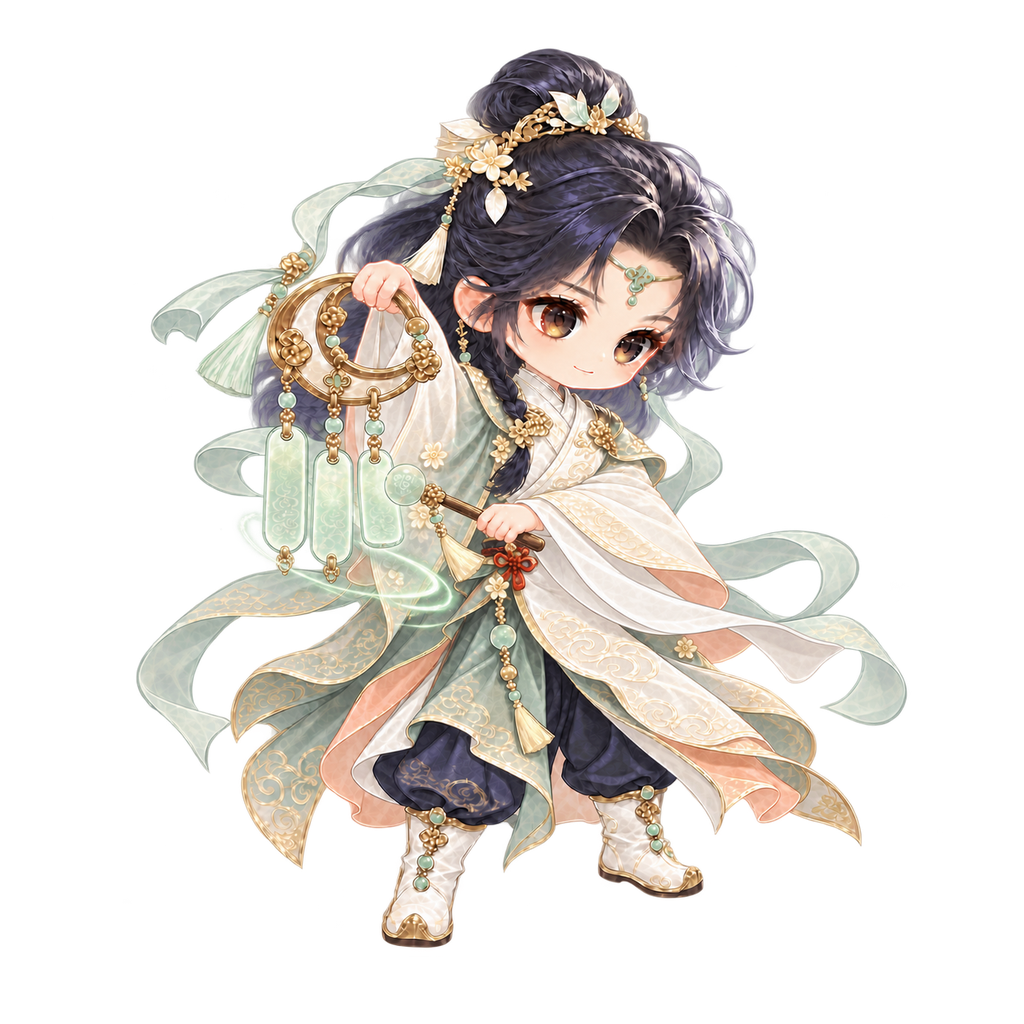
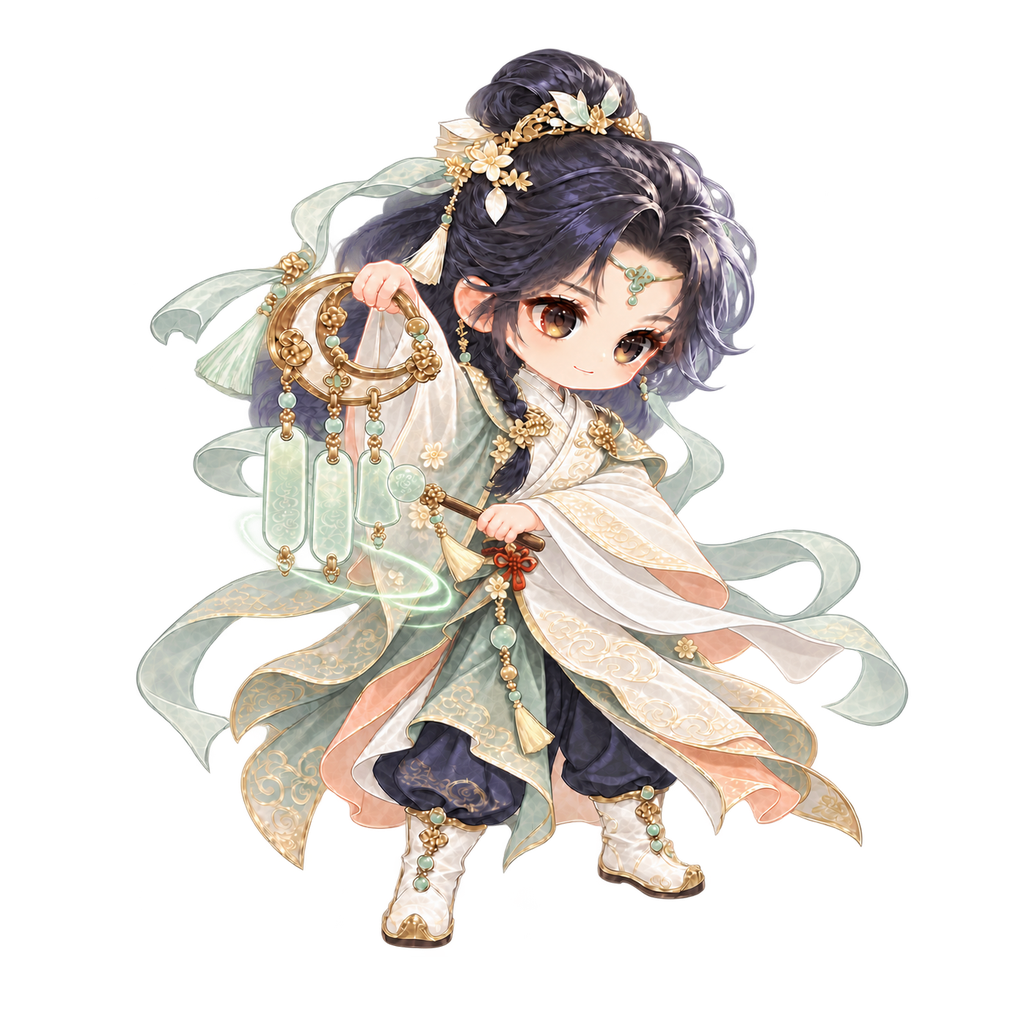
Save game artwork and production records batch 1809

diff --git a/designs/creature-combat-20261005/pets/15-landuoxian/provenance/cast/E/finalize_records.py b/designs/creature-combat-20261005/pets/15-landuoxian/provenance/cast/E/finalize_records.py
@@ -1,0 +1,39 @@
+from pathlib import Path
+import json,hashlib
+p=Path('D:/work/image/designs/creature-combat-20261005/pets/15-landuoxian/provenance/cast/E')
+sha=lambda f:hashlib.sha256(f.read_bytes()).hexdigest()
+for file in p.glob('*.generation.json'):
+    j=json.loads(file.read_text(encoding='utf8'))
+    for k,ref in enumerate(j['references']):
+        original=Path(ref['path'])
+        actual=original
+        if k==3:
+            if file.name in [f'{i:02}.generation.json' for i in range(9,14)]:
+                ref['role']='AI edit target: same frame before local chime shape correction; preserve pose, scale and support'
+                j['editedFrom']={'file':str(actual),'sha256':sha(actual),'generationRecord':str(p/f'{file.name[:2]}.pre-chimefix.generation.json')}
+            elif file.name=='14.generation.json' or file.name in [f'{i:02}.pre-chimefix.generation.json' for i in range(10,14)]:
+                actual=original.with_name(original.stem+'.pre-chimefix.png')
+                ref['originalInputPath']=str(original)
+                ref['path']=str(actual)
+                ref['retainedSourceExplanation']='Original submitted path was later replaced by accepted local chime repair; this retained native is the exact input at submission.'
+        if actual.exists(): ref['sha256']=sha(actual)
+    if file.name in [f'{i:02}.generation.json' for i in range(1,17)]:
+        j['visualQA']['acceptedSingleFrame']=True
+        j['visualQA']['motionPreview']='pending root combined normal/0.25x review'
+        if 9<=int(file.name[:2])<=13:
+            j['visualQA']['localRepair']='Short flared right chime restored; hands, instrument holding and pose re-inspected.'
+    file.write_text(json.dumps(j,ensure_ascii=False,indent=2),encoding='utf8')
+review={
+'action':'cast','direction':'E','frameCount':16,'durationMs':45,
+'singleFrameVisualInspection':'All 16 final full-size generated outputs inspected, followed by two sequential contact sheets.',
+'finalPaths':'runtime/cast/E/01.png through16.png',
+'provenance':'provenance/cast/E/NN.prompt.txt, NN.receipt.json, NN.generation.json',
+'consistentChecks':['E three-quarter front lower-right','two arms/two hands/two legs','anatomical right hand gold ring; anatomical left jade mallet','exactly three jade chimes; short flared far-right chime restored in09–13','no wings/tails introduced','true RGBA transparent background','single frame per builtin imagegen request; no mirrored/copied/interpolated frame'],
+'repairs':[{'frame':9,'reason':'excessive rebound in initial release pose','status':'corrected'},{'frames':[9,10,11,12,13],'reason':'rightmost short chime silhouette had elongated','status':'corrected'},{'frame':10,'reason':'one chime repair candidate added a third arm/second mallet','status':'rejected; corrected final is two arms and one mallet'}],
+'normalAndSlowPlayback':'not claimed; root performs combined six-group browser review',
+'remainingReviewFocus':['01→02 initial ring lift is comparatively fast','10→11 ring lowering is comparatively fast','small AI contour/ornament and foot-support variation should be assessed at runtime scale; no per-frame alignment was applied'],
+'clientIntegration':'not tested',
+'retention':'native and rejected images retained temporarily as root instructed; root performs final retention cleanup after six-group verification. Preserve all text provenance.'
+}
+(p/'group-review.json').write_text(json.dumps(review,ensure_ascii=False,indent=2),encoding='utf8')
+print('final source chains enriched; group review saved')

diff --git a/designs/creature-combat-20261005/pets/15-landuoxian/provenance/cast/E/archive_rejected.py b/designs/creature-combat-20261005/pets/15-landuoxian/provenance/cast/E/archive_rejected.py
@@ -1,0 +1,12 @@
+from pathlib import Path
+import json,sys
+p=Path('D:/work/image/designs/creature-combat-20261005/pets/15-landuoxian/provenance/cast/E')
+n=sys.argv[1];label=sys.argv[2];reason=sys.argv[3]
+for ext in ('prompt.txt','receipt.json','generation.json'):
+    (p/f'{n}.{ext}').rename(p/f'{n}.{label}.{ext}')
+native=p/'_inprogress'/f'{n}.png';dest=p/'_inprogress'/f'{n}.{label}.png';native.rename(dest)
+j=json.loads((p/f'{n}.{label}.generation.json').read_text(encoding='utf8'))
+j.update({'file':None,'retentionState':'rejected; replacement pending','prompt':str(p/f'{n}.{label}.prompt.txt')})
+j['derivedFrom']['nativeFile']=str(dest);j['evidence']['receipt']=str(p/f'{n}.{label}.receipt.json');j['visualQA']['accepted']=False;j['visualQA']['rejectionReason']=reason
+(p/f'{n}.{label}.generation.json').write_text(json.dumps(j,ensure_ascii=False,indent=2),encoding='utf8')
+print(str(dest))

diff --git a/designs/creature-combat-20261005/pets/15-landuoxian/provenance/cast/W/build_qa_contact.py b/designs/creature-combat-20261005/pets/15-landuoxian/provenance/cast/W/build_qa_contact.py
@@ -1,0 +1,12 @@
+from pathlib import Path
+from PIL import Image,ImageDraw
+base=Path(r"D:/work/image/designs/creature-combat-20261005/pets/15-landuoxian")
+sheet=Image.new("RGB",(1536,1664),(234,232,222))
+dr=ImageDraw.Draw(sheet)
+for n in range(1,17):
+ im=Image.open(base/"runtime/cast/W"/f"{n:02d}.png").resize((384,384),Image.Resampling.LANCZOS)
+ x=((n-1)%4)*384;y=((n-1)//4)*416
+ sheet.paste(im,(x,y),im)
+ dr.text((x+12,y+389),f"W CAST {n:02d} / 45 ms",fill=(32,48,44))
+sheet.save(base/"provenance/cast/W/qa-contact-sheet.png")
+
